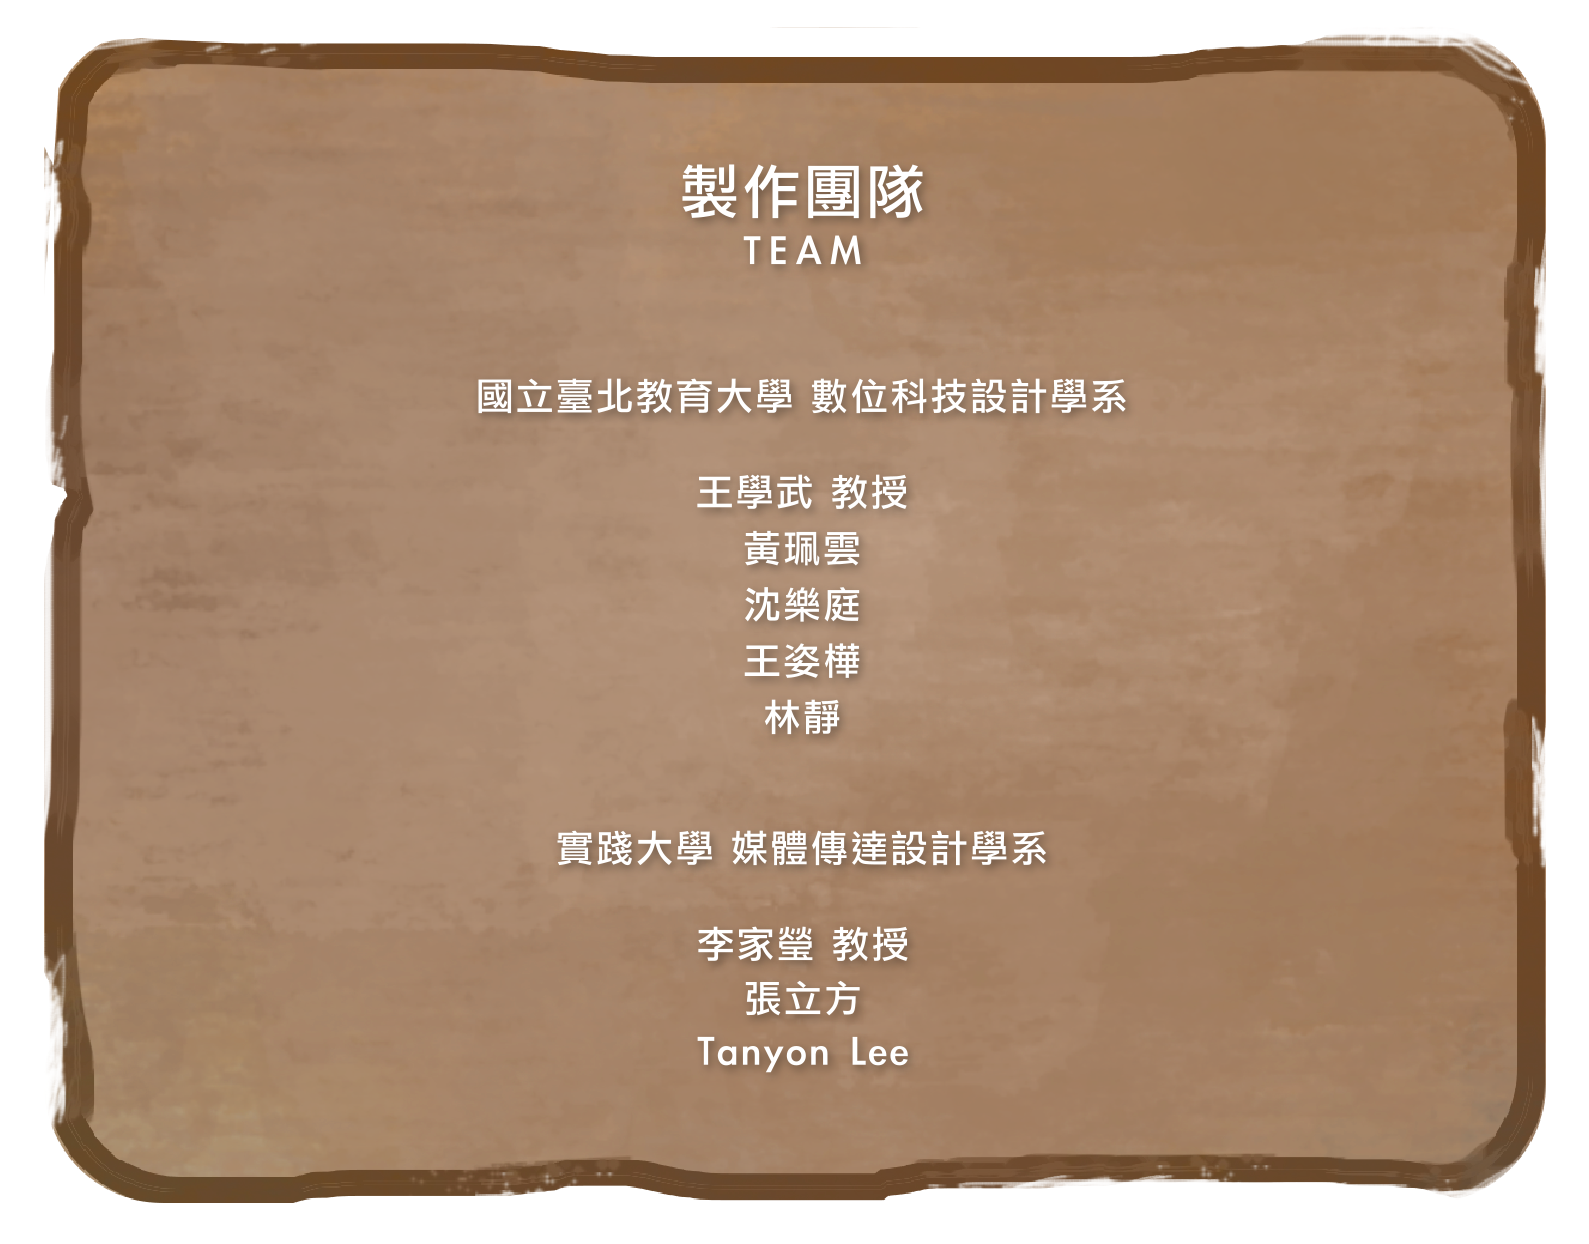
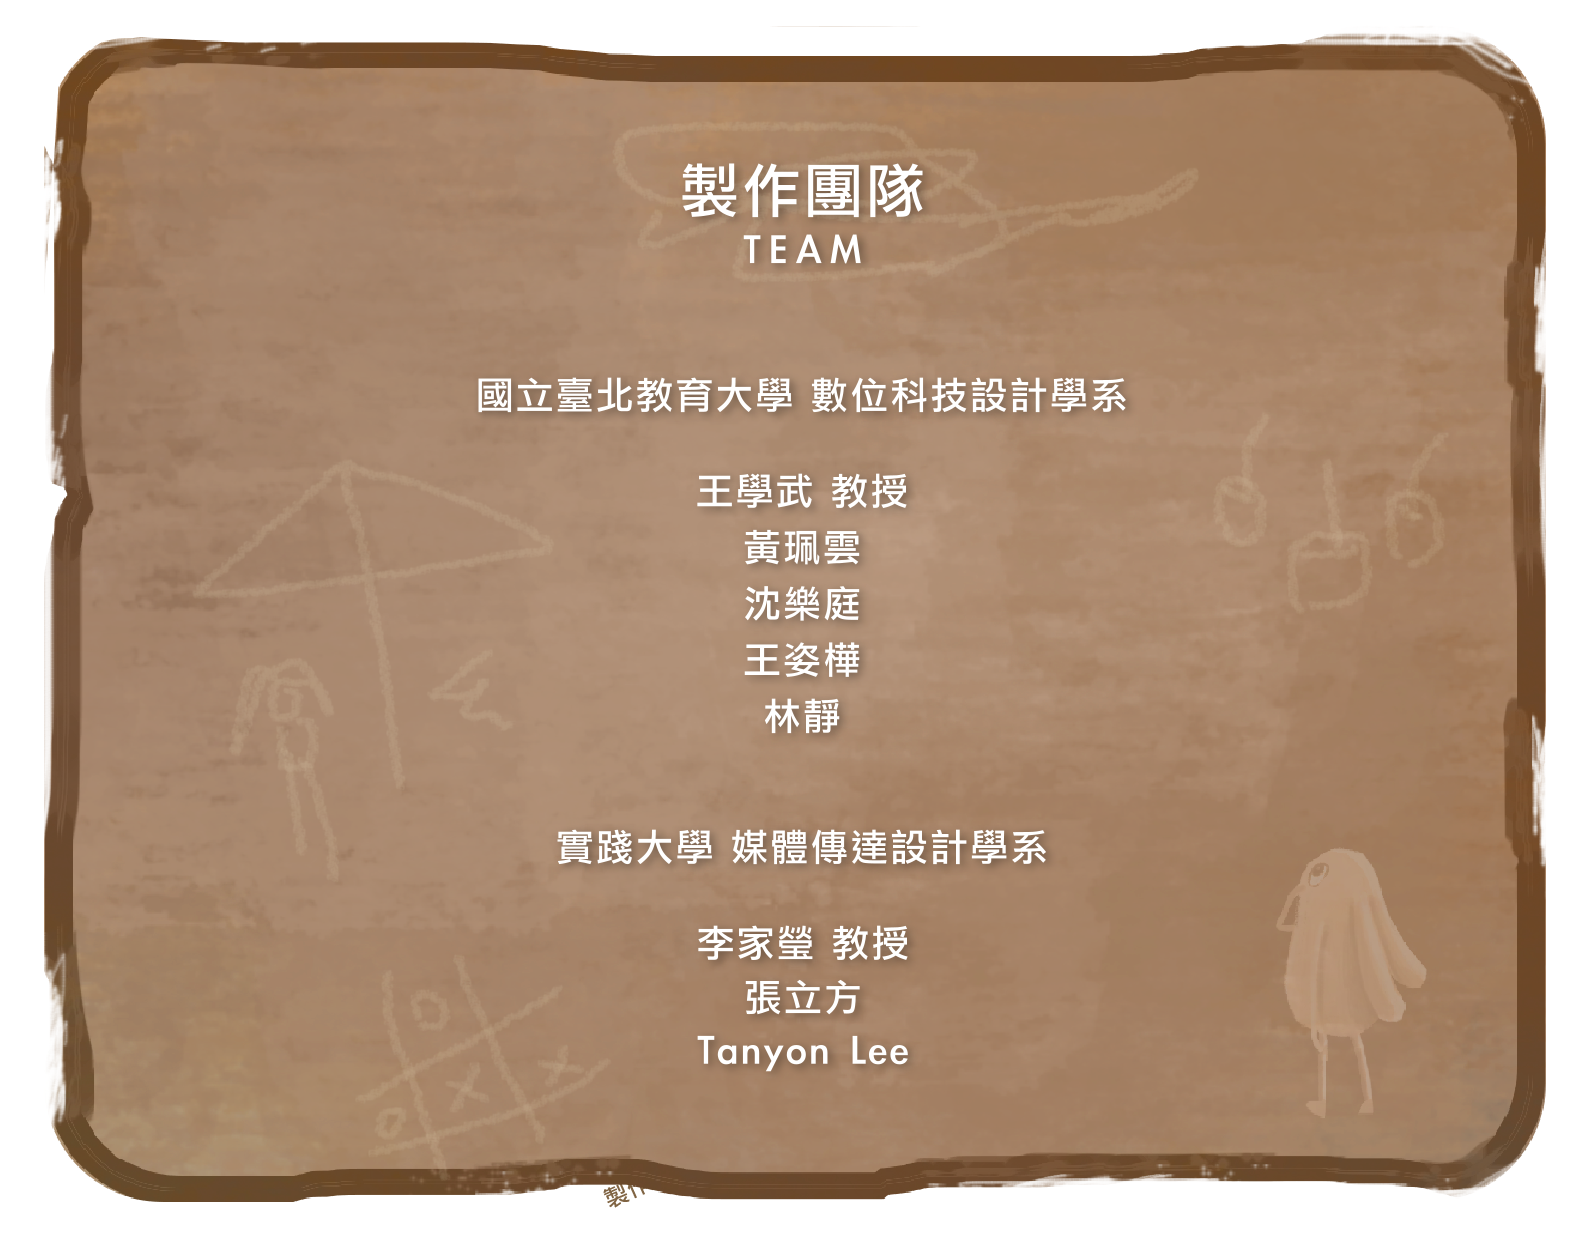
換製作團隊圖片

diff --git a/Classes/CMenuScene.cpp b/Classes/CMenuScene.cpp
@@ -36,6 +36,7 @@ bool CMenuScene::init()
     char spriteName[30], normalName[30], touchedName[30];
     
     //設定章節紀錄
+   // CCUserDefault::sharedUserDefault()->setBoolForKey("IS_EXISTED",0);
     if(!CCUserDefault::sharedUserDefault()->getBoolForKey("IS_EXISTED")){
         CCUserDefault::sharedUserDefault()->setBoolForKey("IS_EXISTED",1);
         for(int n=0;n<5;n++){
